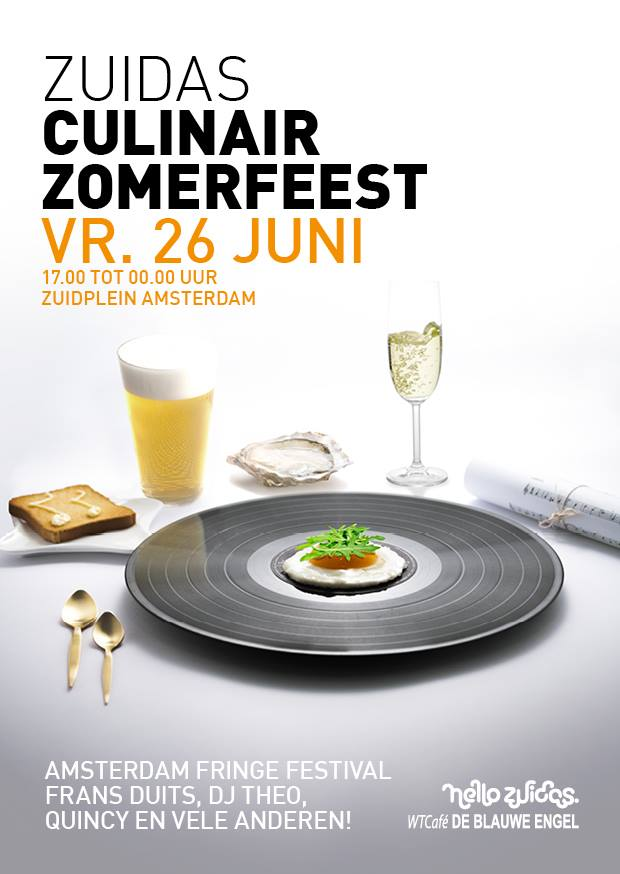
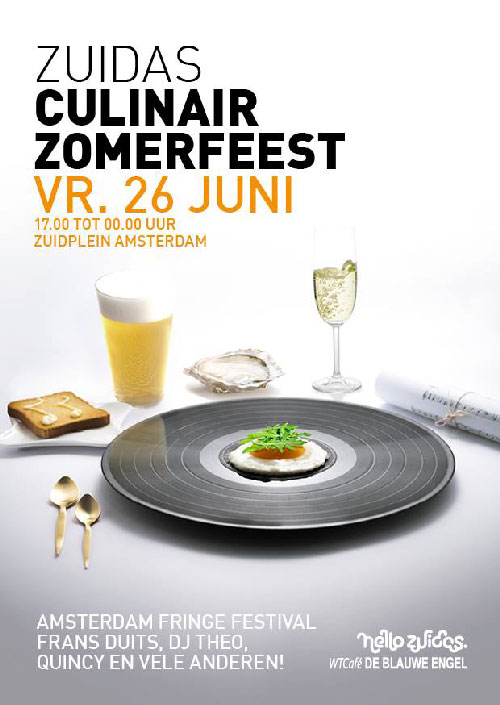
small update
image links en toevoegingen programma. en aex.json update want ik had
het in aex-generated.json toegevoegd, maar dat word natuurlijk
overschreven

diff --git a/program.html b/program.html
@@ -162,19 +162,19 @@
                     <!-- Wrapper for slides -->
                     <div class="carousel-inner" role="listbox">
                       <div class="item active">
-                        <img src="img/buildup/IMG_8302.jpg" alt="...">
+                        <img src="img/buildup/IMG_8302.JPG" alt="...">
                         <div class="carousel-caption">
                         Suat Ögüt
                         </div>
                       </div>
                       <div class="item">
-                        <img src="img/buildup/IMG_8317.jpg" alt="...">
+                        <img src="img/buildup/IMG_8317.JPG" alt="...">
                         <div class="carousel-caption">
                         Lennart Lahuis
                         </div>
                       </div>
                       <div class="item">
-                        <img src="img/buildup/IMG_8249.jpg" alt="...">
+                        <img src="img/buildup/IMG_8249.JPG" alt="...">
                         <div class="carousel-caption">
                         David Bernstein, Styrmir Örn Gu&eth;mundsson and Rosa Sijben making binaural recordings for the audio companion.
                         </div>
@@ -297,10 +297,14 @@
                   Curated by Rieke Vos, Laurie Cluitmans and Weekender.<br>
                   <br>
                   Opening: 4 – 8 PM<br>
-                  Official opening: 5 PM<br>
+                  Official opening: 5 PM<br><br>
+                  Welcome by Cecile Wentges<br>
+                  Introduction by Laurie Cluitmans en Rieke Vos<br>
+                  Official opening by Kai van Hasselt<br>
+                  Performance by David, Rosa en Styrmir<br><br>
                   Location: pentagon Prinses Irenelaan 43 x Minervalaan, Zuidas Amsterdam<br>
                   <br>
-                  Bring your headphones to the opening to listen to the audio companion!
+                  Bring your headphones to the opening to listen to the audio companion! It is recorded in 3D binaural surround sound and headphones are the best way to experience this.
                   <br><br>
                   The opening weekend is co-produced by <a href="http://weekenderamsterdam.com" target="blank">Weekender</a>. 
                   
@@ -348,7 +352,7 @@
               <div id="collapseTen" class="panel-collapse collapse" role="tabpanel" aria-labelledby="headingTen">
                 <div class="panel-body">
                   We will be present at Zuidas Culinair. <br><br>
-                  <img src="img/zuidasculinair.jpg" class="img-responsive" style="width:50%;height:auto;"><br>
+                  <img src="img/zuidasculinair.png" class="img-responsive" style="width:50%;height:auto;"><br>
                   Check their program <a href="https://www.facebook.com/ZuidasCulinairZomerfeest" target="blank"><u>here</u>.</a>
                 </div>
               </div>
@@ -395,6 +399,7 @@
               <div id="collapseSix" class="panel-collapse collapse" role="tabpanel" aria-labelledby="headingSix">
                 <div class="panel-body">
                   GET LOST will organise a night walk. Program will follow.
+                  <img src="img/24hzuid.png" class="img-responsive">
                 </div>
               </div>
             </div>
